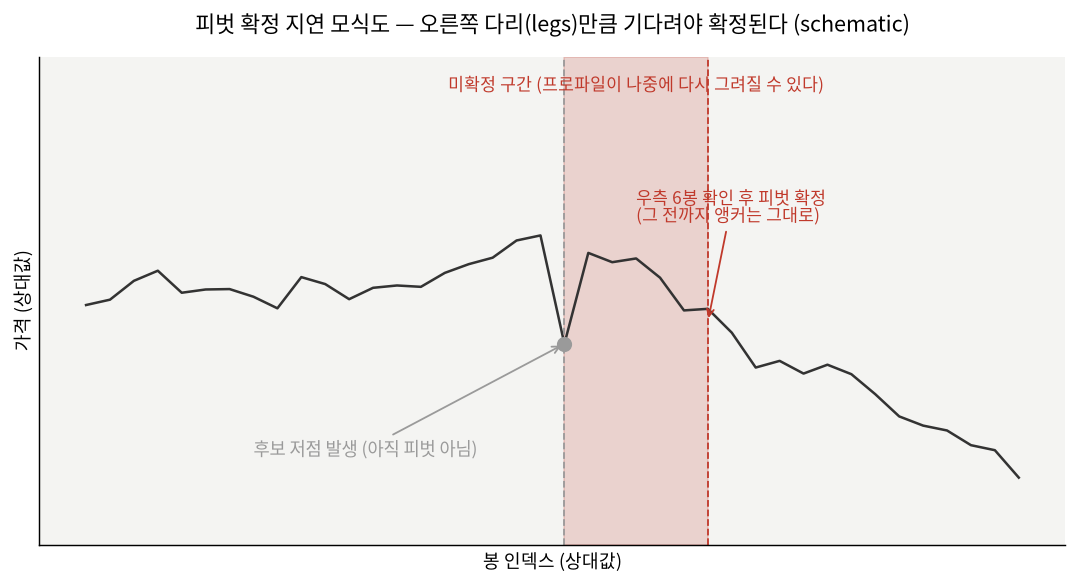
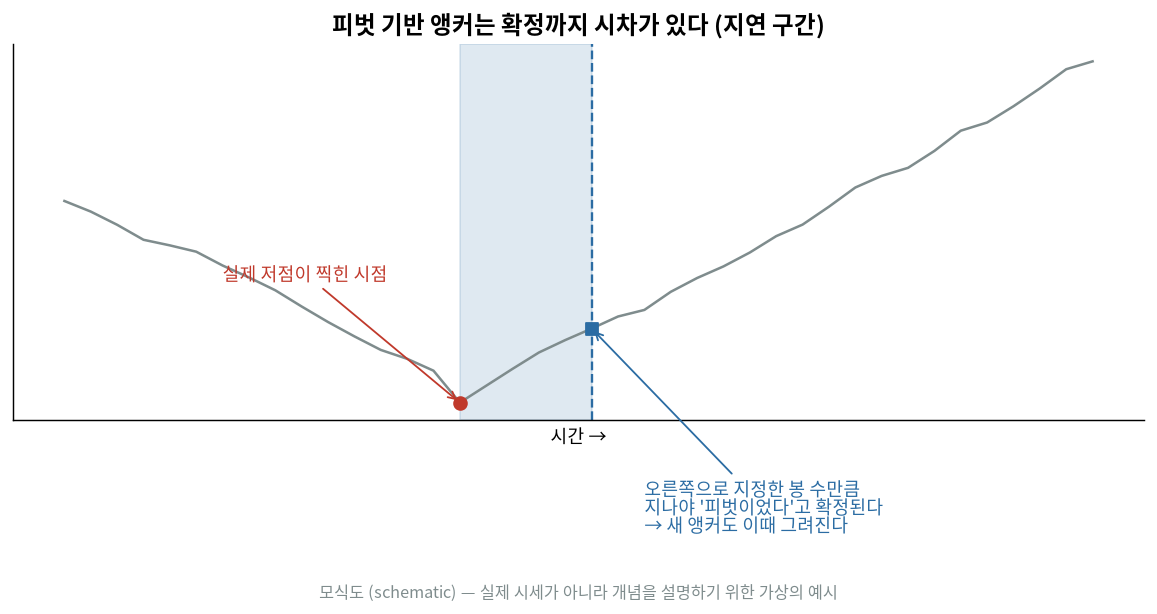
study(C18): publish GRAM 자동 고정 볼륨 프로파일

diff --git a/content/study/gram-auto-anchored-volume-profile.md b/content/study/gram-auto-anchored-volume-profile.md
@@ -1,91 +1,87 @@
 ---
-title: "그램, 프로파일이 앵커를 스스로 고르면 무슨 일이 생기나 (Auto Anchored Volume Profile on Gram)"
-description: "앵커를 스스로 골라 다시 그리는 볼륨 프로파일이 24시간 도는 코인 시장, 그리고 거래소가 갈라진 장부 위에서 왜 흔들리는지 뜯어봤다. A teardown of TradingView's Auto Anchored Volume Profile, read against 24/7 crypto markets and fragmented exchange tapes."
-date: 2026-09-10T19:55:47+09:00
+title: "그램, 거래량이 스스로 닻을 내리는 자리 (Auto Anchored Volume Profile on Gram)"
+description: "자동 고정 볼륨 프로파일은 가격이 만든 피벗마다 스스로 새 앵커를 찍어 POC와 밸류 에어리어를 다시 그리는 지표다. Auto Anchored Volume Profile redraws its POC and value area whenever price forms a new pivot, without any calendar boundary."
+date: 2026-09-12T19:23:44+09:00
 draft: false
 markets: ["crypto"]
 tags: ["지표스터디", "기술적지표", "자동매매", "암호화폐", "그램"]
-summary: "앵커를 스스로 고르는 볼륨 프로파일이 무엇을 재고 무엇을 못 보는지, 24시간 코인 시장 위에서 따져봤다."
+summary: "달력도 사람 손도 아니고 가격이 만든 피벗마다 스스로 앵커를 새로 찍는 자동 고정 볼륨 프로파일을, 시세 없이 정의와 계산식만으로 뜯어본다."
 ---
 
-## 오늘 다루는 건 "프로파일"이면서 결이 다르다
+## 서론
 
-며칠 전 TPO(Time Price Opportunity)를 다뤘다. 반시간마다 알파벳을 찍어서 가격이 머문 "시간"을 세는 도구였다. 오늘 배정은 같은 "프로파일" 계열이지만 세는 대상이 다르다. 자동 고정 볼륨 프로파일(Auto Anchored Volume Profile)은 시간이 아니라 실제로 체결된 거래량을 가격대별로 쌓는다. 이름에 프로파일이 들어가는 도구는 시간을 세는지 거래량을 세는지부터 구분해야 한다고 지난 편에 적었는데, 오늘 그 구분의 반대쪽을 다룬다.
+18번째 회차 코인은 그램(GRAM), 스크립트는 "자동 고정 볼륨 프로파일(Auto Anchored Volume Profile)"이다. 지금까지 다룬 열일곱 개는 전부 조건문 하나로 정리되는 전략류이거나, 세션 경계를 사람이 정해주는 프로파일류였다. 이번 건 다르다. "자동(Auto)"이라는 단어가 붙은 순간 앵커(닻)를 사람이 아니라 지표 스스로 찾는다. 어디에 닻을 내리느냐가 프로파일의 모양을 통째로 바꾸는데, 그 선택을 기계에 맡긴다는 게 무슨 뜻인지 뜯어보고 싶어서 이번 회차로 골랐다.
 
-"오토"가 붙은 이유도 있다. 트레이딩뷰의 볼륨 프로파일 계열에는 시작점을 사람이 직접 찍는 고정 범위(Fixed Range), 거래일이 바뀔 때마다 다시 그리는 세션(Session) 버전이 있다. 오토 앵커드는 시작점 자체를 규칙이 스스로 고른다. 사람이 아무 것도 안 찍어도 유의미한 저점·고점이 나올 때마다 거기서부터 새 프로파일을 그리기 시작한다. 편한 대신 "언제부터 세느냐"를 규칙에 맡기게 되는데, 그 위임이 어디서 문제가 되는지가 이번 글의 본론이다.
+미리 밝혀둔다. 이번 편은 시세를 받아 성과를 검증한 글이 아니라 규칙 자체를 해부한 글이다. 승률도, 이 지표가 짚어낸 POC 근처에서 실제로 반등이 몇 번 나왔는지도 적지 않는다. 그런 숫자를 낼 방법이 이 시리즈엔 없다.
 
-미리 밝혀둔다. 이번에도 시세를 받지 않았고 승률도 재지 않았다. 이 글은 시세를 받아 성과를 검증한 글이 아니라 규칙 자체를 해부한 글이다. 아래 그림은 전부 실제 체결 데이터가 아니라 규칙의 동작을 보여주기 위해 손으로 만든 모식도다. 승률을 적지 않은 이유도 그래서다.
+## 본론
 
-## 무엇을 재는가 — 시간이 아니라 물량
+### 볼륨 프로파일이 재는 것
 
-계산 자체는 어렵지 않다. 프로파일이 덮는 구간(오토 앵커드에서는 마지막으로 확정된 앵커부터 현재 봉까지) 안의 가격 범위를 여러 개의 가격 행으로 잘게 나눈다. 그 구간의 모든 봉을 돌면서, 각 봉이 지나간 가격 행에 그 봉의 거래량을 나눠 쌓는다. 봉 하나가 여러 행에 걸쳐 있으면 고가·저가 사이의 행에 거래량이 고르게 또는 봉 내부 가격 분포 가정에 따라 배분된다. 다 쌓고 나면 행마다 "이 가격에서 얼마나 많은 물량이 오갔는가"라는 숫자가 남는다.
+일반적인 지표는 가격을 시간 축에 늘어놓는다. 이동평균도, RSI도 x축은 시간이다. 볼륨 프로파일은 축을 하나 접는다. 시간을 버리고 가격대별로 거래량을 옆으로 눕혀 쌓는다. 그 결과가 아래 그림처럼 종 모양(혹은 삐뚤어진 종 모양) 히스토그램이다. 아래에 나오는 그림은 전부 실제 시세가 아니라 규칙과 계산식을 설명하기 위해 손으로 만든 모식도이며, 축에 적힌 값도 실제 가격이 아니라 상대값이다.
 
-TPO와 정확히 여기서 갈린다. TPO는 한 구간이 어떤 가격 행을 스치기만 해도 알파벳 하나를 찍었다. 물량이 얼마였는지는 안 봤다. 볼륨 프로파일은 반대로 "얼마나 오래 머물렀는가"는 전혀 안 보고 "얼마나 많이 오갔는가"만 본다. 30분 동안 딱 한 번 큰 체결이 터진 가격 행과, 30분 내내 잔거래만 오간 가격 행이 있다면 TPO는 둘 다 알파벳 하나로 동일하게 취급하지만 볼륨 프로파일은 전자를 훨씬 두껍게 그린다. 두 도구를 같은 이름의 "프로파일"이라고 뭉뚱그리면 안 되는 이유다.
+![모식도: 볼륨 프로파일의 기본 구조, POC·VAH·VAL](/img/study/gram-01-profile-concept.png)
 
-## POC·Value Area — 산출 절차는 TPO와 같은 틀을 쓴다
+여기서 세 값이 나온다.
 
-행마다 쌓인 거래량을 옆으로 눕히면 히스토그램이 나온다. 그중 가장 두꺼운 행이 POC(Point of Control)다. 그 구간에서 가장 많은 물량이 거래된 가격이라는 뜻이다.
+- **POC**(Point of Control) — 거래량이 가장 많이 쌓인 가격대. "시장이 가장 많이 합의한 가격"이라고들 부른다.
+- **VAH**(Value Area High) — 전체 거래량의 70%가 몰린 구간(Value Area)의 위쪽 경계.
+- **VAL**(Value Area Low) — 같은 구간의 아래쪽 경계.
 
-<div class="term">
-<div class="term-bar"><i></i><i></i><i></i><em>Value Area 산출 절차</em></div>
-<pre><code><span class="c"># POC 행에서 시작해 위아래로 확장한다</span>
-<span class="g">범위 = { POC 행 }</span>
-<span class="g">while 누적 거래량 / 전체 거래량 &lt; 0.70:</span>
-<span class="g">    위쪽 다음 행과 아래쪽 다음 행의 거래량을 비교</span>
-<span class="g">    더 큰 쪽을 범위에 편입 (동률이면 양쪽 다)</span>
-<span class="w">경계: 위쪽 = VAH, 아래쪽 = VAL</span></code></pre>
-</div>
+70%라는 숫자는 트레이딩뷰 볼륨 프로파일 계열 지표가 공통으로 쓰는 기본값이다. 표준편차 한 구간에 가깝게 잡은 값이라 알려져 있고, 피터 스타이들마이어의 마켓 프로파일 이론에서 그대로 물려받았다. 가격 구간을 몇 칸으로 쪼갤지 정하는 행(Row) 수도 기본값이 있는 지표가 많은데, 칸을 늘리면 POC가 더 뾰족해지고 줄이면 뭉툭해진다. 이것도 시세와 무관한, 순전히 계산 해상도 문제라 이 시리즈에서 다룰 수 있는 숫자다.
 
-절차 자체는 지난 편 TPO의 Value Area 산출과 뼈대가 같다. 차이는 채워 넣는 값이 "알파벳 개수"인지 "거래량"인지뿐이다. 70%라는 비율은 마켓 프로파일 원형에서부터 내려온 관행값이고, 트레이딩뷰 볼륨 프로파일 계열(고정 범위·세션·오토 앵커드 공통) 스크립트가 그대로 기본값으로 쓴다. 행 개수 기본값도 하나 있는데, 프로파일을 몇 개의 가격 칸으로 쪼갤지 정하는 값으로 기본은 24칸이다. 칸이 너무 적으면 POC가 뭉툭해지고 너무 많으면 노이즈에 가까운 봉우리가 여러 개 생긴다. 둘 다 시세와 무관한, 규칙이 정의로 갖는 숫자다.
+### 닻을 어디에 내리는가 — Auto가 다른 점
 
-아래는 이 절차를 그대로 적용한 모식도다. POC에서 시작해 거래량이 큰 쪽부터 채워 전체의 70%를 넘긴 지점에서 멈춘다.
+프로파일 계열 지표는 전부 "어디서부터 어디까지의 거래량을 모을 것인가"를 정해야 하는데, 그 시작점을 앵커라고 부른다. 세션 볼륨 프로파일은 거래소가 정한 하루 경계마다 새로 앵커를 찍는다. 주기적 볼륨 프로파일은 주·월 같은 달력 단위로 찍는다. 픽스트 레인지는 사람이 차트에서 직접 드래그해 앵커를 지정한다.
 
-![볼륨 프로파일 구조 모식도 — POC·Value Area, 손으로 만든 값 (schematic)](/img/study/gram-01-vp-anatomy.png)
+자동 고정 볼륨 프로파일은 이 셋과 다르다. 달력도, 사람 손도 아니고 가격이 만든 피벗(스윙 고점·저점)이 새로 나올 때마다 지표가 알아서 새 앵커를 찍는다.
 
-## "오토"가 하는 일 — 앵커를 스스로 고른다
+![모식도: 세션·주기·자동 앵커 방식 비교](/img/study/gram-02-anchor-types.png)
 
-고정 범위 버전은 사람이 시작 봉과 끝 봉을 직접 찍는다. 세션 버전은 거래일이 바뀌는 시점마다 다시 그린다. 오토 앵커드는 둘 다 안 한다. 대신 가격이 "유의미한" 고점이나 저점을 새로 만들 때마다 그 지점을 새 앵커로 삼아 거기서부터 현재 봉까지 프로파일을 새로 그린다. 다음 유의미한 고점·저점이 나오기 전까지는 그 앵커가 계속 유지되고, 프로파일은 봉이 늘어날 때마다 오른쪽으로 계속 확장된다.
+피벗은 보통 "왼쪽 N봉, 오른쪽 N봉보다 높다·낮다"는 정의로 잡는다. 문제는 오른쪽 N봉이 실제로 지나가야만 그 봉이 피벗이었다는 게 확정된다는 점이다.
 
-여기서 "유의미하다"는 판정이 핵심이다. 아무 저점이나 앵커로 삼으면 프로파일이 한 봉마다 다시 그려져서 쓸모가 없어진다. 그래서 좌우로 일정 개수의 봉보다 더 낮은(또는 더 높은) 지점만 피벗으로 인정한다. 문제는 이 판정이 즉시 되지 않는다는 점이다. 어떤 봉이 피벗 저점인지 확인하려면 그 오른쪽으로 일정 개수의 봉이 더 쌓여서 그 저점을 안 깨는 걸 봐야 한다. 그러니까 저점이 찍힌 순간에는 그게 새 앵커가 될지 아직 모른다. 며칠 뒤 오른쪽 봉들이 확인돼야 비로소 "아, 그때가 새 앵커였구나"라고 규칙이 인정한다.
+![모식도: 피벗 확정의 지연 구간](/img/study/gram-03-pivot-lag.png)
 
-![오토 앵커 재설정 모식도 — 새 피벗이 확정되면 앵커가 옮겨 간다 (schematic)](/img/study/gram-02-auto-anchor.png)
+저점이 찍힌 순간에는 아직 그 저점이 저점인지 모른다. 오른쪽으로 지정한 봉 수만큼 시간이 지나야 "그때가 저점이었구나" 하고 뒤늦게 앵커를 그린다. 앵커가 확정되는 순간 그 앵커를 기준으로 한 새 POC·VAH·VAL이 한꺼번에 튀어나온다. 실시간으로 화면을 보고 있으면 방금까지 없던 지지선·저항선이 갑자기 몇 봉 전 자리에 생기는 셈이다. 이건 버그가 아니라 정의상 그럴 수밖에 없는 후행성이다. 피벗을 오른쪽으로 확인하는 방식을 쓰는 한 피할 수 없다.
 
-## 이 지표가 못 보는 것
+### 파라미터를 바꾸면 지도가 바뀐다
 
-첫째, 확정 지연이 곧 재작도(redraw)다. 후보 저점이 나온 시점과 그 저점이 진짜 피벗으로 확정되는 시점 사이에는 반드시 시차가 있다. 그 시차 동안 화면에 보이는 프로파일은 옛 앵커 기준으로 그려진 잠정치이고, 피벗이 확정되는 순간 최근 구간의 프로파일이 통째로 다시 그려진다. 방금 전까지 봤던 POC가 그 다음 봉에서 자리를 옮기는 일이 생긴다는 뜻이다. 실시간으로 이 값을 참고해 판단을 내리는 입장에서는, 지금 보이는 POC가 확정값인지 아직 재작도될 수 있는 잠정값인지부터 구분해야 한다.
+Value Area 비율을 70%가 아니라 90%로 넓히면 어떻게 될까. 같은 거래량 분포에서 상위 90%를 담아야 하니 VAH는 올라가고 VAL은 내려간다. 반대로 비율을 줄이면 두 경계가 POC 쪽으로 좁혀 들어온다.
 
-![피벗 확정 지연 모식도 — 오른쪽 다리만큼 기다려야 확정된다 (schematic)](/img/study/gram-03-pivot-lag.png)
+![모식도: Value Area 비율을 바꿨을 때 VAH·VAL 폭 변화](/img/study/gram-04-value-area-pct.png)
 
-둘째, 시간 정보를 완전히 버린다. 히스토그램으로 눕히는 순간 "언제 그 물량이 오갔는지"는 사라진다. 구간 초반에 몰아서 거래된 것과 구간 전체에 고르게 퍼져서 거래된 것이 겹쳐서 똑같은 모양의 프로파일로 나올 수 있다. TPO가 거래량을 못 보는 대신 시간의 흔적을 남긴다면, 볼륨 프로파일은 거래량을 정확히 보는 대신 시간의 흔적을 버린다. 두 도구가 서로의 약점을 정확히 나눠 가진 셈이라 어느 한쪽만으로는 그림이 완성되지 않는다.
+숫자 하나 바꿨을 뿐인데 "지지선"과 "저항선"이라 부르던 자리가 통째로 옮겨간다. 이 지표를 눈으로만 보고 판단을 내릴 때 흔히 놓치는 부분이, 화면에 그어진 선이 시장이 그은 선이 아니라 내가 고른 파라미터가 그은 선이라는 점이다.
 
-셋째는 크립토 시장에서만 진짜 골치 아파지는 문제다. 주식은 거래소가 하나로 통합돼 있거나, 여러 거래소가 있어도 통합 시세(consolidated tape)로 물량을 합쳐서 본다. 코인은 그런 게 없다. 같은 코인이라도 거래소마다 각자의 호가창에서 각자의 체결이 쌓이고, 프로파일도 거래소별로 따로 그려진다. 어느 거래소의 체결 데이터를 프로파일에 넣느냐에 따라 POC와 Value Area의 위치가 통째로 달라질 수 있다. "이 가격에서 시장이 가장 많이 거래됐다"는 문장은 사실 "이 거래소에서"라는 단서가 항상 붙어야 하는 문장이다. 여러 거래소를 합산해서 보여주는 지수 시세를 쓰더라도, 그 지수가 어떤 거래소를 얼마만큼 반영하는지에 따라 프로파일의 모양이 또 달라진다.
+### 못 보는 것
 
-![거래소별 체결 기준 프로파일 비교 모식도 — 같은 구간, 다른 POC (schematic)](/img/study/gram-04-exchange-fragmentation.png)
+계산식 자체는 단순하다. 구간을 나누고 각 구간에 들어간 거래량을 더하는 게 전부다. 그런데 그 "거래량"이라는 재료 자체가 코인 시장에서는 주식보다 믿기 어렵다. 거래소마다 같은 코인이라도 체결량이 따로 집계되고, 유동성이 얕은 코인일수록 자전거래로 부풀린 거래량이 섞여 있어도 지표는 구분하지 못한다. 볼륨 프로파일은 거래량이 진짜 수급을 반영한다는 전제 위에 서 있는데, 그 전제 자체를 지표가 검증해주지는 않는다.
 
-넷째, 24시간 시장이라 프로파일이 쉬지 않는다. 주식은 장이 매일 닫히니 세션 버전이든 뭐든 최소한 하루에 한 번은 강제로 리셋된다. 코인 시장은 장이 닫힌 적이 없다. 오토 앵커드는 새 피벗이 나와야만 앵커가 바뀌는데, 방향 없이 좁은 범위를 오래 맴도는 구간에서는 좌우 확인 조건을 만족하는 뚜렷한 피벗 자체가 한참 안 나올 수 있다. 그러면 앵커가 몇 주 전 지점에 그대로 묶인 채 프로파일만 계속 옆으로 늘어난다. 오래된 앵커에서 시작한 프로파일은 그사이 시장 성격이 바뀌었어도 그걸 반영 못 하고, "최근 흐름"이라고 믿고 보는 프로파일이 사실은 몇 주치 물량이 뭉친 값일 수 있다. 세션 버전이었다면 자동으로 리셋됐을 상황이 오토 앵커드에서는 그대로 방치된다.
+24시간 쉬지 않고 돌아가는 시장이라는 점도 프로파일의 모양에 영향을 준다. 주식은 장 시작·종료 시점에 호가가 몰리면서 거래량이 특정 가격대에 뾰족하게 쌓이는 경향이 있다. 코인은 그런 개장·마감 순간이 거래소 장부상으로만 존재할 뿐 실제 매매 행태에는 없어서, 거래가 하루 종일 고르게 퍼지면 POC가 상대적으로 완만해지고 VAH-VAL 폭도 넓어지는 경향이 생긴다. 다만 자동 고정 방식은 애초에 달력 경계를 쓰지 않으니, 세션·주기 프로파일이 겪는 "업비트는 KST 자정, 해외 거래소는 UTC 자정이라 경계가 아홉 시간 어긋난다"는 문제에서는 비켜나 있다. 대신 그 경계를 피벗 레그 길이라는 다른 파라미터로 옮겨놓았을 뿐이다. 사람이 조정해야 할 숫자가 하나 줄어든 게 아니라 종류만 바뀐 셈이다.
 
-## 그램이라는 무대
+또 하나, 이 지표는 방향을 말하지 않는다. POC 위에 있다고 사라거나 아래 있다고 팔라고 하지 않는다. 가격이 지금 어디 서 있는지에 대한 지도만 그려줄 뿐, 지도 위에서 어느 쪽으로 걸을지는 보는 사람 몫이다.
 
-이번 회차 배정은 그램(GRAM)이다. 다만 솔직히 적어야 할 게 있다. 이 코인의 최근 사건·상장 여부·발행 구조에 대해 내가 확신을 갖고 말할 수 있는 사실이 마땅치 않다. 지난 편들에서는 밈코인이면 뉴스에 취약하고 거래소 토큰이면 소각 정책이 섞인다는 식으로 성격을 짚었는데, 그램에 대해서는 그 정도의 확신도 없다. 확실하지 않은 걸 그럴듯하게 적느니 빼는 편이 낫다고 판단했다.
+피벗 레그 길이를 얼마로 잡느냐도 결국 사람이 정하는 숫자다. 왼쪽·오른쪽을 짧게 잡으면 앵커가 자주 바뀌어 최근 구조에는 민감해지지만 그만큼 프로파일이 자주 지워지고 다시 그려져 "그동안 쌓인 합의"라는 의미가 옅어진다. 길게 잡으면 앵커가 드물게 바뀌어 프로파일이 안정적으로 보이지만, 그만큼 지금 가격과 무관해진 오래된 피벗을 계속 기준으로 삼게 된다. 둘 중 어느 쪽이 맞는지는 코인마다, 시기마다 다를 텐데 이 지표 자체는 그 답을 주지 않는다. 결국 "자동"이라는 이름이 가리키는 건 앵커를 사람이 손으로 찍지 않는다는 뜻이지, 그 앵커가 항상 의미 있는 자리라는 보장은 아니다.
 
-대신 위에서 짚은 거래소 파편화 문제는 특정 코인의 사정과 무관하게 코인 시장 전체에 적용되는 구조적 함정이라, 그램에도 똑같이 걸린다. 어떤 코인이든 거래소가 여러 곳에 나뉘어 있는 이상 "그 코인의 프로파일"이라는 단수형 표현 자체가 성립하지 않는다. "어느 거래소의 프로파일"이라고 물어야 정확한 질문이 된다.
+### 그램이라는 무대
 
-## 내 봇에 넣을 것인가
+그램은 이번 회차 배정 목록에서도 CoinGecko 식별자가 비어 있는 코인이다. 이 코인의 최근 사건이나 유통량, 상장 현황을 확신 있게 말할 근거가 지금 손에 없어서 그런 서술은 아예 넣지 않는다.
 
-지금은 안 넣는다. 이유는 두 가지로 좁혀진다.
+다만 역설적으로 이 상황이 이번 지표의 성격과 잘 맞는다. 이 시리즈는 애초에 "가격을 보지 않고 규칙만 본다"는 전제로 돌아가는데, 그램처럼 서사가 옅은 코인일수록 POC·VAH·VAL이라는 순수하게 기계적인 지도 말고는 참고할 이야기가 없다. 밈코인처럼 뉴스 한 방에 프로파일이 통째로 무의미해지는 위험도, 거래소 토큰처럼 소각 정책이 수급 논리에 끼어드는 위험도 이번 사고 실험에서는 배제하고, 순수하게 거래량 지도만 두고 판단해볼 수 있다는 뜻이다.
 
-하나는 재작도 문제다. 게이트는 그 순간의 값을 보고 즉시 판단을 내려야 하는데, 오토 앵커드의 최근 구간 POC는 다음 봉에서 피벗이 확정되면 자리를 옮길 수 있는 잠정값이다. 확정된 옛 구간의 POC만 쓴다면 재작도 문제는 피할 수 있지만, 그러면 정작 "최근" 정보가 아니게 되어 진입 판단에 쓸 실익이 줄어든다.
+## 결론
 
-다른 하나는 거래소 선택이다. 어느 거래소의 체결 데이터로 프로파일을 그릴지 정하는 순간, 그 선택이 결과에 그대로 반영된다. 지금 봇이 참조하는 시세 소스 하나로 계산한 POC가 다른 거래소 기준 POC와 얼마나 벌어지는지 확인이 안 된 상태라, 지금 넣으면 어느 장부를 기준으로 한 값인지도 모른 채 쓰는 셈이 된다.
+봇에 넣을 것인가. 이번엔 넣지 않기로 했다. 이유는 이 지표가 진입·청산 조건을 정의하지 않기 때문이다. strategy 카테고리였던 앞선 회차들은 조건문 두어 줄로 옮겨졌지만, 이건 프로파일이라는 지도 하나를 그려줄 뿐이다. POC를 건드리면 반등한다든지 VAH를 뚫으면 추세가 이어진다든지 하는 규칙은 지표 밖에서 별도로 정의해야 하는데, 그 규칙을 만드는 순간 반응 폭·확인 봉 수 같은 새 파라미터가 또 붙는다. 그 파라미터는 이 지표의 기본값이 아니라 내가 지어내는 숫자가 되므로, 지금 단계에서 봇에 넣는 건 자동 고정 볼륨 프로파일이 아니라 내가 아직 검증하지 않은 별도의 전략을 끼워 넣는 셈이 된다.
 
-버리는 건 아니다. TPO 때와 결론이 비슷한데, POC·Value Area를 지지·저항의 참고선으로 화면에 얹어두는 정도는 나쁘지 않다고 본다. 재작도되는 구간과 확정된 구간을 색으로 구분해서 보여주기만 해도, 지금 보는 값이 잠정인지 확정인지 헷갈릴 일은 없다. 다만 진입·청산 게이트로 쓰는 건 재작도와 거래소 선택 두 문제가 같이 풀려야 다시 생각해볼 일이다.
+다만 필터로는 눈여겨볼 만하다고 생각한다. 다른 전략이 낸 신호가 VAH·VAL 바깥의 얇은 구간에서 나왔는지, 아니면 POC 근처 두꺼운 구간에서 나왔는지를 참고 정보로만 붙여두는 방식이다. 넣지 않기로 한 결론을 그대로 남겨두는 이유는, 나중에 이 필터 아이디어를 실제로 시험해볼 때 왜 처음엔 보류했는지를 돌아볼 수 있게 하기 위해서다.
 
-이 글은 특정 자산의 매매를 권유하지 않는다. 기록은 개인 개발 로그다.
+이번 편은 시세를 받아 성과를 검증한 글이 아니라 규칙 자체를 해부한 글이다. 승률을 적지 않은 이유도 그래서다. 이 글은 투자 권유가 아니며, 여기 나온 POC·VAH·VAL은 전부 손으로 그린 모식도의 값이라 그램을 포함한 어떤 코인의 실제 가격도 반영하지 않는다.
 
 ## 약어 풀이
 
-- **TPO** (Time Price Opportunity) — 반시간 단위 알파벳으로 가격이 머문 시간을 세는 마켓 프로파일 기법.
-- **POC** (Point of Control) — 프로파일에서 거래량이 가장 많이 쌓인 가격 행.
-- **VAH** (Value Area High) — Value Area의 위쪽 경계.
-- **VAL** (Value Area Low) — Value Area의 아래쪽 경계.
-- **GRAM** (Gram) — 이번 회차에 배정된 코인 심볼.
+- **GRAM** — 이번 회차에 배정된 코인 심볼.
+- **POC** (Point of Control) — 거래량이 가장 많이 쌓인 가격대.
+- **VAH** (Value Area High) — 거래량 70%가 몰린 구간(밸류 에어리어)의 위쪽 경계.
+- **VAL** (Value Area Low) — 같은 구간의 아래쪽 경계.
+- **KST** (Korea Standard Time) — 한국 표준시.
+- **UTC** (Coordinated Universal Time) — 협정 세계시.
+- **RSI** (Relative Strength Index) — 상대강도지수. 서론에서 볼륨 프로파일과 대비할 때 예로 든 지표.
